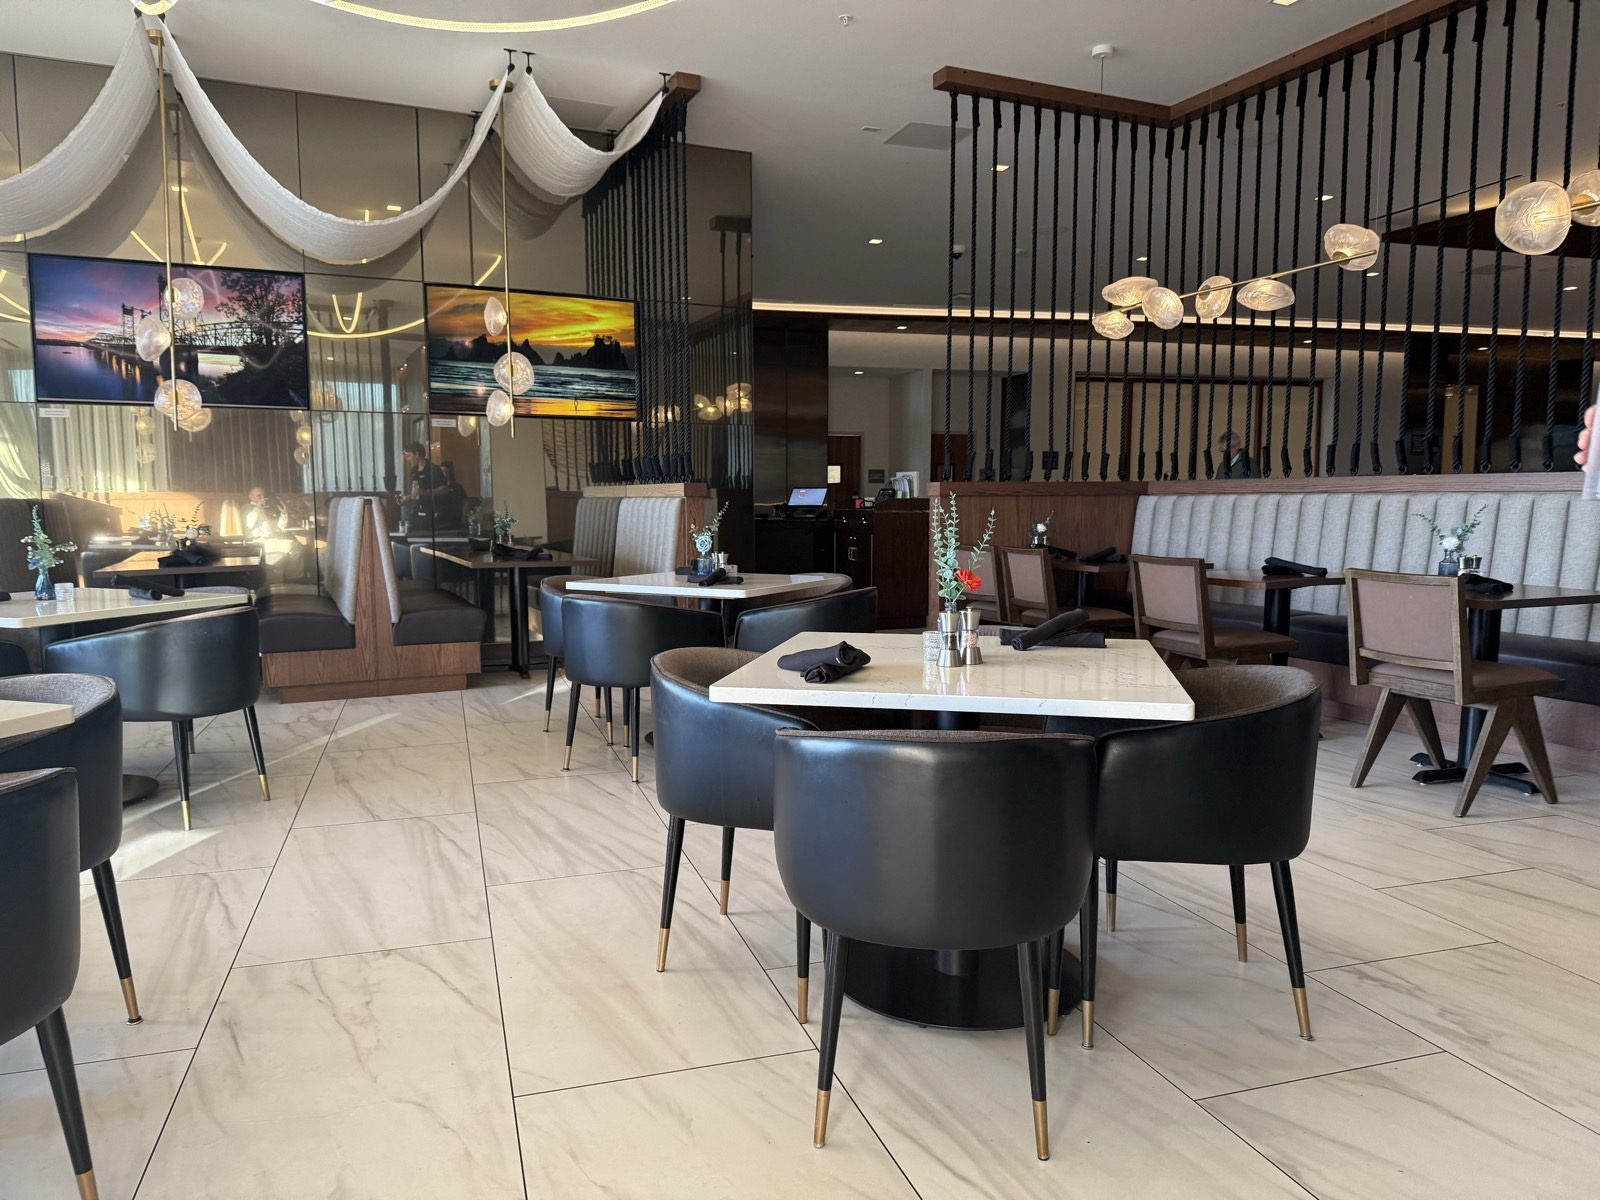
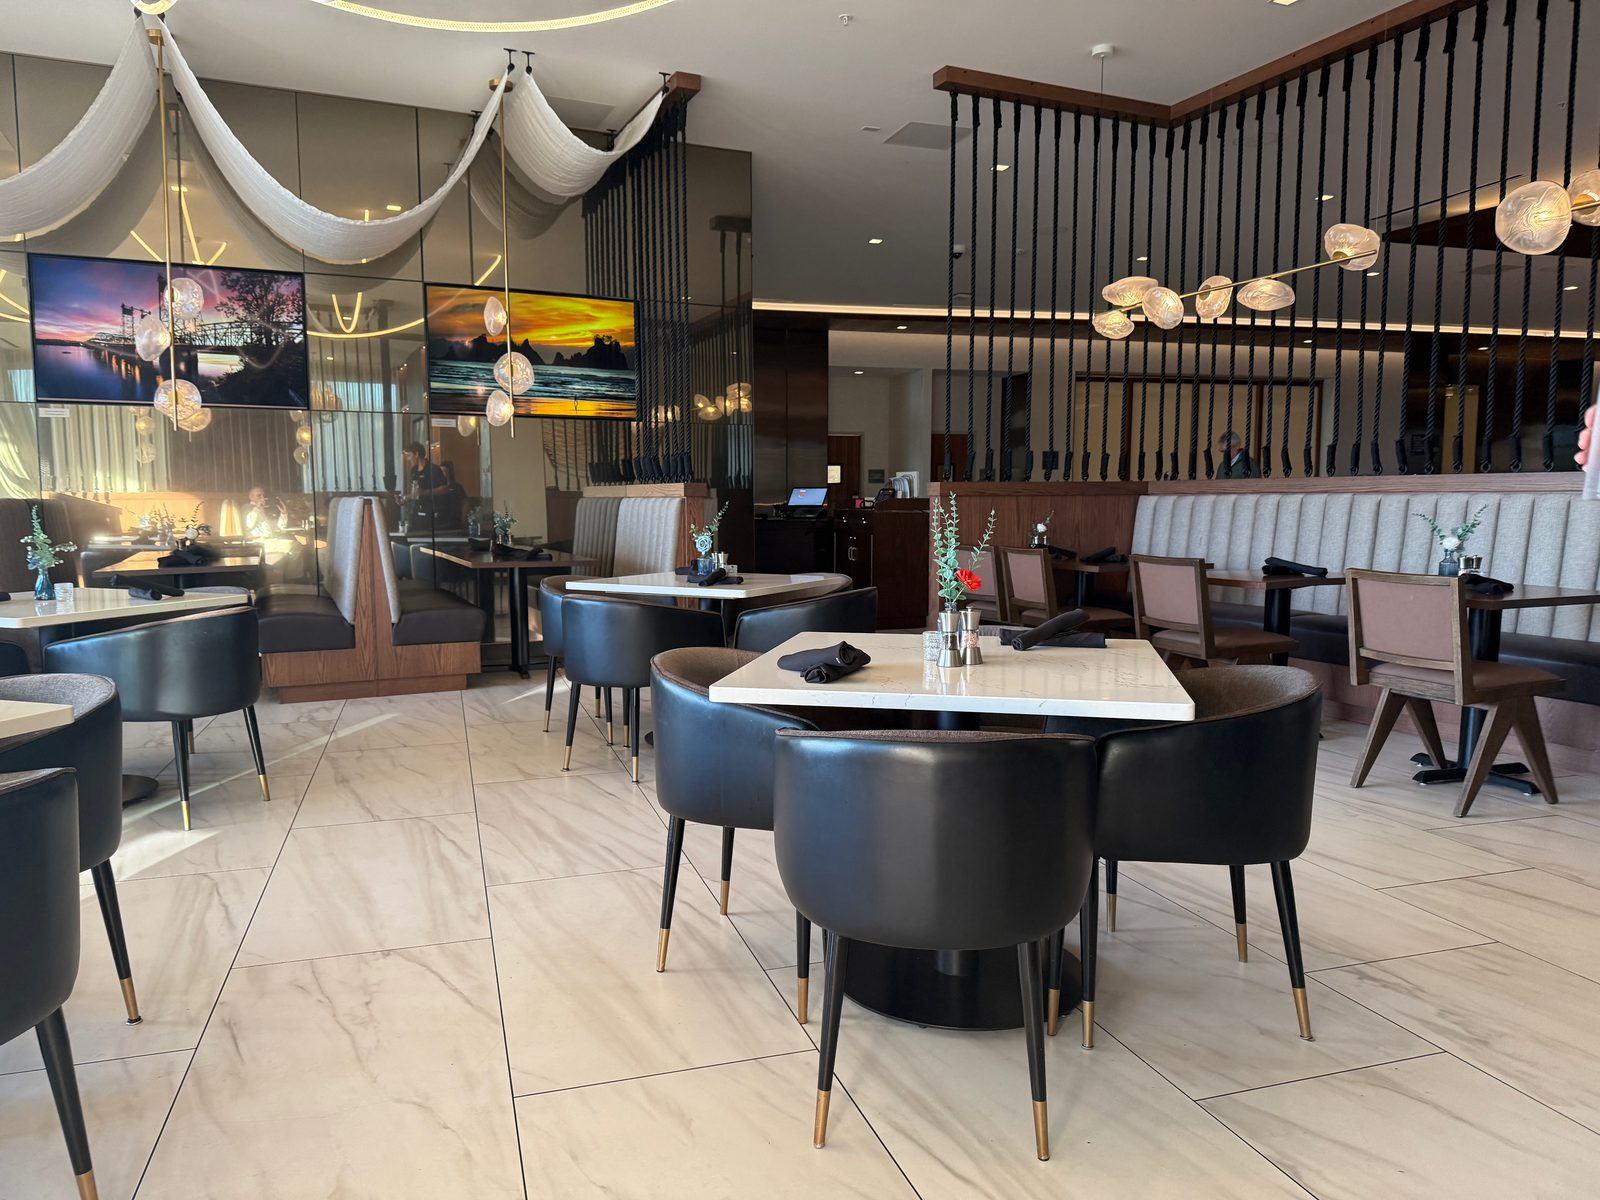
Fix Ondus draft: use edited (cropped) photos, not raw originals
The first pass exported with 'using originals', which pulls the
unedited capture and discards any crop made in Photos. Re-exported
the whole batch as edited/current versions instead. Also folds in
the POG Rum name, the lemon-citrus note on the shrimp, and the
Ondus/ondas shared Latin root (unda, wave) — the logo is a wave too.

diff --git a/travel/draft-ondus-vancouver-waterfront.html b/travel/draft-ondus-vancouver-waterfront.html
@@ -99,16 +99,18 @@
   <figure class="hero"><img src="img/ondus-vancouver-sunset-patio.jpg" alt="The dining room at Ondus on the Waterfront in Vancouver, Washington, open to a patio at dusk, diners seated both inside and out, with a darkening blue sky over the Columbia River in the distance" width="1600" height="1200" loading="eager" fetchpriority="high"/></figure>
   <div class="postbody">
 <p>Ondus on the Waterfront sits inside the AC Hotel on Vancouver, Washington's stretch of
-riverfront, and the name on the wall by the host stand reads <strong>ONDUS</strong>, not the
-"Ondas" I'd had rattling around in my head walking in <em>(pictured below, that wall, with the
-wine fridge glowing blue next to it)</em>. Easy mistake, apparently — I wasn't the only one at
-the table saying it wrong. What isn't a mistake is the setting: floor-to-ceiling glass folded
-open onto a patio, the Columbia River a few hundred feet away, and a sky that was doing
-something genuinely nice with the color orange by the time we left.</p>
+riverfront, and I'd been calling it "Ondas" in my head the whole drive over. Turns out that's
+a smaller miss than it sounds — both words trace back to the same Latin root, <em>unda</em>,
+meaning wave, and the little mark above the wordmark on the wall by the host stand
+<em>(below)</em> isn't decoration, it's a wave, drawn plain and simple. Which is a nicely
+appropriate name and logo for a restaurant sitting close enough to the Columbia River to watch
+the light change on it through a wall of glass. Floor-to-ceiling windows fold open onto a
+patio, the river a few hundred feet away, and the sky was doing something genuinely nice with
+the color orange by the time we left.</p>
 
 <figure>
-  <img src="img/ondus-vancouver-entrance-sign.jpg" alt="The ONDUS wall sign near the host stand at Ondus on the Waterfront, with a blue-lit glass wine refrigerator beside it and a host checking a tablet at the podium" loading="lazy"/ width="1600" height="1200">
-  <figcaption>The sign that settles the pronunciation question. Ondus, not Ondas.</figcaption>
+  <img src="img/ondus-vancouver-entrance-sign.jpg" alt="The ONDUS wall sign near the host stand at Ondus on the Waterfront, its logo a simple stylized wave above the wordmark, with a blue-lit glass wine refrigerator beside it and a host checking a tablet at the podium" loading="lazy"/ width="1600" height="1200">
+  <figcaption>Ondus — the logo is a wave, which tracks, for a restaurant on a river.</figcaption>
 </figure>
 
 <h2>What the dining room looks like before it fills up</h2>
@@ -132,24 +134,25 @@ burger and fish and chips for anyone who wandered in wanting neither hummus nor 
   <figcaption>Appetizers on the left, entrees and sandwiches on the right — worth reading slowly, because almost everything on it sounded good.</figcaption>
 </figure>
 
-<p>A cocktail showed up first, some orange-hued thing with a dehydrated citrus wheel and a
-metal straw <em>(below)</em> — I didn't write down the name and I'm not going to pretend I
-remember it, but it did the job a first drink is supposed to do at a table with a view.</p>
+<p>A cocktail showed up first — a <strong>POG Rum</strong>, the classic passionfruit-orange-guava
+mix built on rum, dehydrated citrus wheel and metal straw included <em>(below)</em> — and it
+did exactly the job a first drink is supposed to do at a table with a view.</p>
 
 <figure>
-  <img src="img/ondus-vancouver-cocktail.jpg" alt="An orange-colored cocktail in a cut-crystal rocks glass, garnished with a dehydrated orange wheel and served with a metal straw on a black napkin" loading="lazy"/ width="1200" height="1600">
-  <figcaption>Good drink, better view behind it.</figcaption>
+  <img src="img/ondus-vancouver-cocktail.jpg" alt="A POG Rum cocktail, orange-colored passionfruit-orange-guava juice and rum in a cut-crystal rocks glass, garnished with a dehydrated orange wheel and served with a metal straw on a black napkin" loading="lazy"/ width="1200" height="1600">
+  <figcaption>The POG Rum. Good drink, better view behind it.</figcaption>
 </figure>
 
 <h2>The garlic shrimp I'd drive back for on its own</h2>
 
 <p>The <strong>Shrimp + Toast Cazuela</strong> is the dish I keep thinking about. Sizzling
 garlic shrimp in a little cazuela dish, and the sauce underneath — to my taste it read like
-butter and white wine reduced down together, garlicky and rich without being heavy — with two
-slabs of toasted sourdough for mopping it up <em>(pictured below)</em>. I wouldn't drive across
-town for a burger, and I'll get to why in a minute, but I would drive across town for that
-sauce and whatever else they've got going on in that kitchen. It's the best thing that came to
-our table all night, and it's an appetizer.</p>
+butter and white wine reduced down together, garlicky and rich, with a delicious hint of lemon
+citrus running through it that kept the whole thing bright instead of heavy — with two slabs of
+toasted sourdough for mopping it up <em>(pictured below)</em>. I wouldn't drive across town for
+a burger, and I'll get to why in a minute, but I would drive across town for that sauce and
+whatever else they've got going on in that kitchen. It's the best thing that came to our table
+all night, and it's an appetizer.</p>
 
 <figure>
   <img src="img/ondus-vancouver-garlic-shrimp-toast.jpg" alt="A cazuela dish of sizzling garlic shrimp in a butter sauce, garnished with parsley and a lemon wedge, served on a pink plate with two thick slices of toasted sourdough bread" loading="lazy"/ width="1200" height="1600">
@@ -158,17 +161,16 @@ our table all night, and it's an appetizer.</p>
 
 <h2>Two entrees, one plate each a little different from what I expected</h2>
 
-<p>Both entrees landed close together — a blackened Mediterranean salmon and the Waterfront
-Burger, plated up on the table at the same time <em>(below)</em> while the room outside kept
-sliding toward dusk.</p>
+<p>The salmon came out first, set down on the table with the dining room still going about its
+evening behind it <em>(below)</em>, the Waterfront Burger right behind it.</p>
 
 <figure>
-  <img src="img/ondus-vancouver-table-entrees.jpg" alt="A table at Ondus on the Waterfront with a blackened salmon dish in focus and a burger with fries blurred in the foreground, the dining room visible behind" loading="lazy"/ width="1200" height="1600">
-  <figcaption>Both plates in, sun going down behind them.</figcaption>
+  <img src="img/ondus-vancouver-table-entrees.jpg" alt="The Mediterranean Salmon plated on a table at Ondus on the Waterfront, dining room and diners visible behind it in the evening light" loading="lazy"/ width="1600" height="1533">
+  <figcaption>First plate down, dining room going about its evening behind it.</figcaption>
 </figure>
 
 <div class="pair">
-  <figure><img src="img/ondus-vancouver-mediterranean-salmon.jpg" alt="A blackened Mediterranean salmon fillet topped with a dollop of hummus and sumac, served over a creamy orzo salad with tomato and cucumber, drizzled with olive oil" loading="lazy"/ width="1200" height="1600"><figcaption>The Mediterranean Salmon — blackened crust, orzo salad, a swipe of hummus.</figcaption></figure>
+  <figure><img src="img/ondus-vancouver-mediterranean-salmon.jpg" alt="A blackened Mediterranean salmon fillet topped with a dollop of hummus and sumac, served over a creamy orzo salad with tomato and cucumber, drizzled with olive oil" loading="lazy"/ width="1360" height="1600"><figcaption>The Mediterranean Salmon — blackened crust, orzo salad, a swipe of hummus.</figcaption></figure>
   <figure><img src="img/ondus-vancouver-waterfront-burger.jpg" alt="The Waterfront Burger at Ondus, a bacon cheeseburger with lettuce and tomato on a seeded bun, sliced in half, served with a bowl of truffle-parmesan fries" loading="lazy"/ width="1600" height="1200"><figcaption>The Waterfront Burger — Tillamook cheddar, bacon, and truffle-parmesan fries on the side.</figcaption></figure>
 </div>
 

diff --git a/source/travel/2026-09-02-ondus-vancouver-waterfront.html b/source/travel/2026-09-02-ondus-vancouver-waterfront.html
@@ -13,16 +13,18 @@ draft: true
 ---
 
 <p>Ondus on the Waterfront sits inside the AC Hotel on Vancouver, Washington's stretch of
-riverfront, and the name on the wall by the host stand reads <strong>ONDUS</strong>, not the
-"Ondas" I'd had rattling around in my head walking in <em>(pictured below, that wall, with the
-wine fridge glowing blue next to it)</em>. Easy mistake, apparently — I wasn't the only one at
-the table saying it wrong. What isn't a mistake is the setting: floor-to-ceiling glass folded
-open onto a patio, the Columbia River a few hundred feet away, and a sky that was doing
-something genuinely nice with the color orange by the time we left.</p>
+riverfront, and I'd been calling it "Ondas" in my head the whole drive over. Turns out that's
+a smaller miss than it sounds — both words trace back to the same Latin root, <em>unda</em>,
+meaning wave, and the little mark above the wordmark on the wall by the host stand
+<em>(below)</em> isn't decoration, it's a wave, drawn plain and simple. Which is a nicely
+appropriate name and logo for a restaurant sitting close enough to the Columbia River to watch
+the light change on it through a wall of glass. Floor-to-ceiling windows fold open onto a
+patio, the river a few hundred feet away, and the sky was doing something genuinely nice with
+the color orange by the time we left.</p>
 
 <figure>
-  <img src="img/ondus-vancouver-entrance-sign.jpg" alt="The ONDUS wall sign near the host stand at Ondus on the Waterfront, with a blue-lit glass wine refrigerator beside it and a host checking a tablet at the podium" loading="lazy"/>
-  <figcaption>The sign that settles the pronunciation question. Ondus, not Ondas.</figcaption>
+  <img src="img/ondus-vancouver-entrance-sign.jpg" alt="The ONDUS wall sign near the host stand at Ondus on the Waterfront, its logo a simple stylized wave above the wordmark, with a blue-lit glass wine refrigerator beside it and a host checking a tablet at the podium" loading="lazy"/>
+  <figcaption>Ondus — the logo is a wave, which tracks, for a restaurant on a river.</figcaption>
 </figure>
 
 <h2>What the dining room looks like before it fills up</h2>
@@ -46,24 +48,25 @@ burger and fish and chips for anyone who wandered in wanting neither hummus nor 
   <figcaption>Appetizers on the left, entrees and sandwiches on the right — worth reading slowly, because almost everything on it sounded good.</figcaption>
 </figure>
 
-<p>A cocktail showed up first, some orange-hued thing with a dehydrated citrus wheel and a
-metal straw <em>(below)</em> — I didn't write down the name and I'm not going to pretend I
-remember it, but it did the job a first drink is supposed to do at a table with a view.</p>
+<p>A cocktail showed up first — a <strong>POG Rum</strong>, the classic passionfruit-orange-guava
+mix built on rum, dehydrated citrus wheel and metal straw included <em>(below)</em> — and it
+did exactly the job a first drink is supposed to do at a table with a view.</p>
 
 <figure>
-  <img src="img/ondus-vancouver-cocktail.jpg" alt="An orange-colored cocktail in a cut-crystal rocks glass, garnished with a dehydrated orange wheel and served with a metal straw on a black napkin" loading="lazy"/>
-  <figcaption>Good drink, better view behind it.</figcaption>
+  <img src="img/ondus-vancouver-cocktail.jpg" alt="A POG Rum cocktail, orange-colored passionfruit-orange-guava juice and rum in a cut-crystal rocks glass, garnished with a dehydrated orange wheel and served with a metal straw on a black napkin" loading="lazy"/>
+  <figcaption>The POG Rum. Good drink, better view behind it.</figcaption>
 </figure>
 
 <h2>The garlic shrimp I'd drive back for on its own</h2>
 
 <p>The <strong>Shrimp + Toast Cazuela</strong> is the dish I keep thinking about. Sizzling
 garlic shrimp in a little cazuela dish, and the sauce underneath — to my taste it read like
-butter and white wine reduced down together, garlicky and rich without being heavy — with two
-slabs of toasted sourdough for mopping it up <em>(pictured below)</em>. I wouldn't drive across
-town for a burger, and I'll get to why in a minute, but I would drive across town for that
-sauce and whatever else they've got going on in that kitchen. It's the best thing that came to
-our table all night, and it's an appetizer.</p>
+butter and white wine reduced down together, garlicky and rich, with a delicious hint of lemon
+citrus running through it that kept the whole thing bright instead of heavy — with two slabs of
+toasted sourdough for mopping it up <em>(pictured below)</em>. I wouldn't drive across town for
+a burger, and I'll get to why in a minute, but I would drive across town for that sauce and
+whatever else they've got going on in that kitchen. It's the best thing that came to our table
+all night, and it's an appetizer.</p>
 
 <figure>
   <img src="img/ondus-vancouver-garlic-shrimp-toast.jpg" alt="A cazuela dish of sizzling garlic shrimp in a butter sauce, garnished with parsley and a lemon wedge, served on a pink plate with two thick slices of toasted sourdough bread" loading="lazy"/>
@@ -72,13 +75,12 @@ our table all night, and it's an appetizer.</p>
 
 <h2>Two entrees, one plate each a little different from what I expected</h2>
 
-<p>Both entrees landed close together — a blackened Mediterranean salmon and the Waterfront
-Burger, plated up on the table at the same time <em>(below)</em> while the room outside kept
-sliding toward dusk.</p>
+<p>The salmon came out first, set down on the table with the dining room still going about its
+evening behind it <em>(below)</em>, the Waterfront Burger right behind it.</p>
 
 <figure>
-  <img src="img/ondus-vancouver-table-entrees.jpg" alt="A table at Ondus on the Waterfront with a blackened salmon dish in focus and a burger with fries blurred in the foreground, the dining room visible behind" loading="lazy"/>
-  <figcaption>Both plates in, sun going down behind them.</figcaption>
+  <img src="img/ondus-vancouver-table-entrees.jpg" alt="The Mediterranean Salmon plated on a table at Ondus on the Waterfront, dining room and diners visible behind it in the evening light" loading="lazy"/>
+  <figcaption>First plate down, dining room going about its evening behind it.</figcaption>
 </figure>
 
 <div class="pair">
